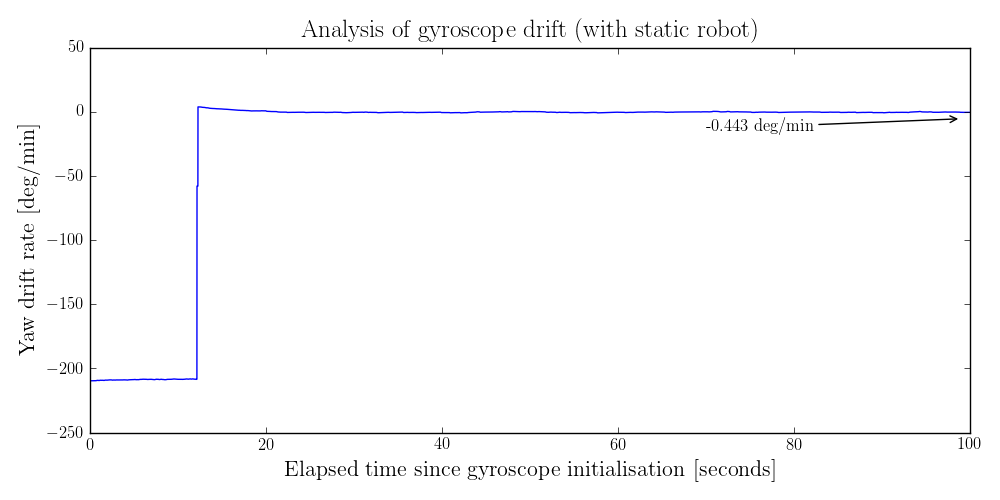
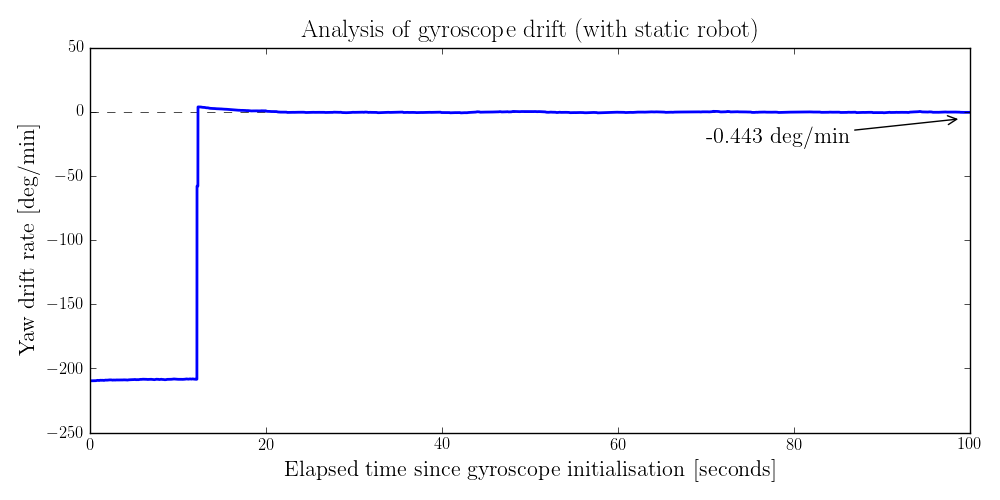
Added dashed ydr=0 line as a reference

Changed region(s): [[0.093, 0.21, 0.961, 0.78]]

diff --git a/Software/gyro_calib/plot_drift.py b/Software/gyro_calib/plot_drift.py
@@ -57,11 +57,13 @@ for i in xrange(len(new_radians_diff)):
 new_radians_diff *= 60.*180./np.pi
 
 
-ax.plot(new_time[1:]/1000.,new_radians_diff)
+ax.plot([0,100],[0,0],'--k',linewidth=0.5)
+
+ax.plot(new_time[1:]/1000.,new_radians_diff,'b',linewidth=2)
 
 
 value = "%.3f" % new_radians_diff[-1]
-ax.annotate(value+" deg/min", xy=(99, new_radians_diff[-1]-5), xytext=(70, -15),arrowprops=dict(arrowstyle="->"))
+ax.annotate(value+" deg/min", xy=(99, new_radians_diff[-1]-5), xytext=(70, -25),arrowprops=dict(arrowstyle="->"), fontsize=16)
 
 ax.set_xlim([0,100])
 
@@ -75,4 +77,4 @@ tight_layout()
 savefig("gyro_drift.pdf")
 savefig("gyro_drift.png")
 
-#show()
+show()
